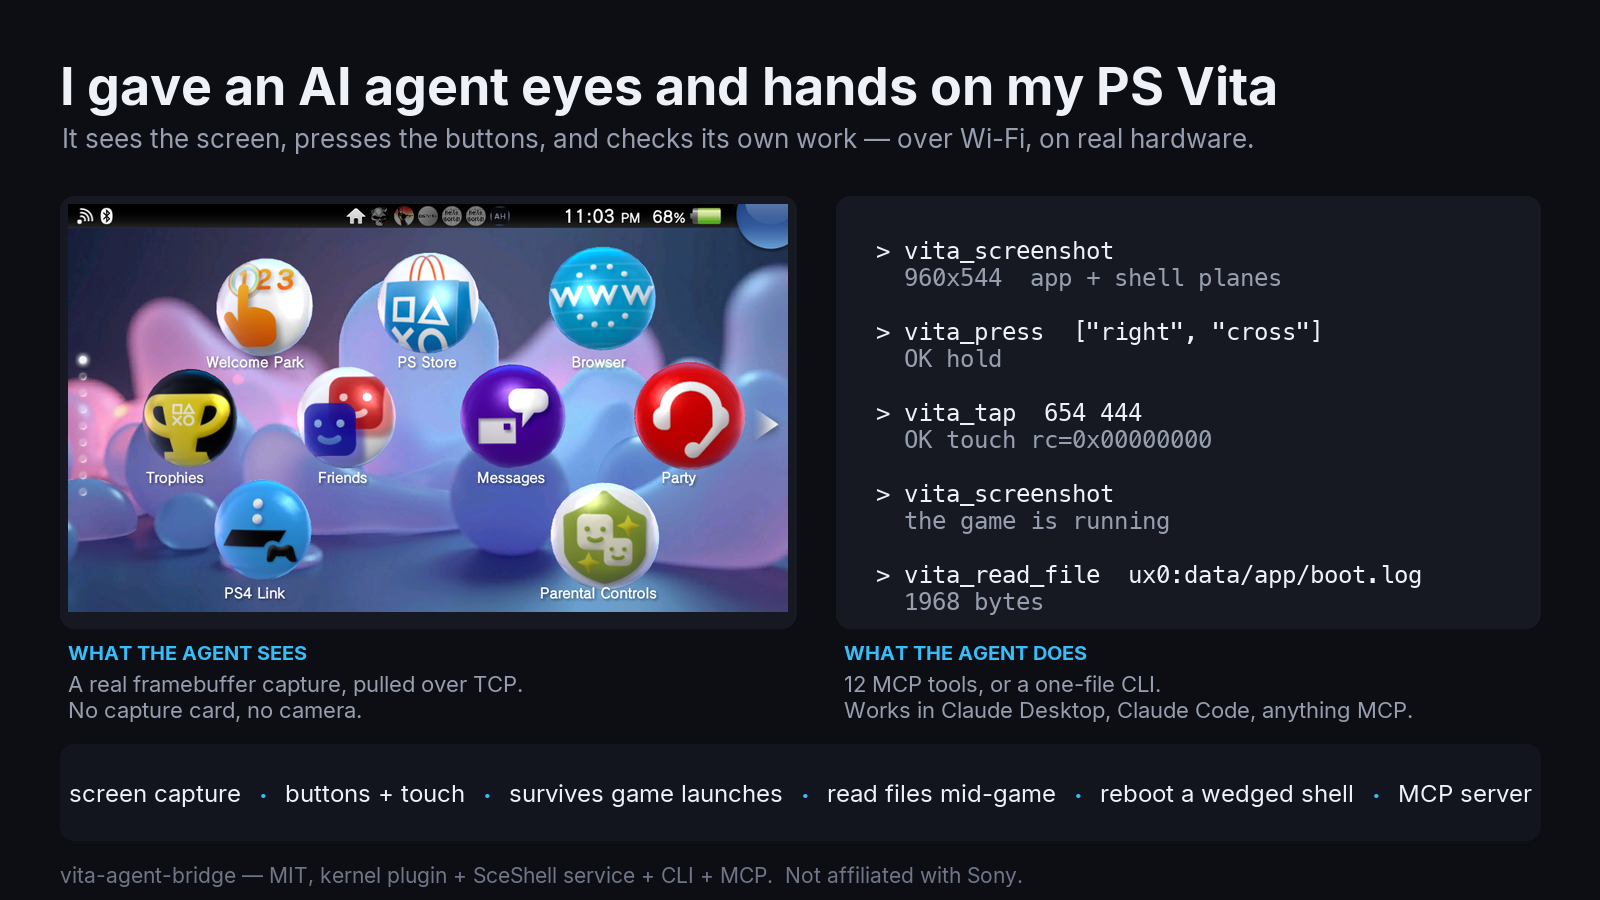
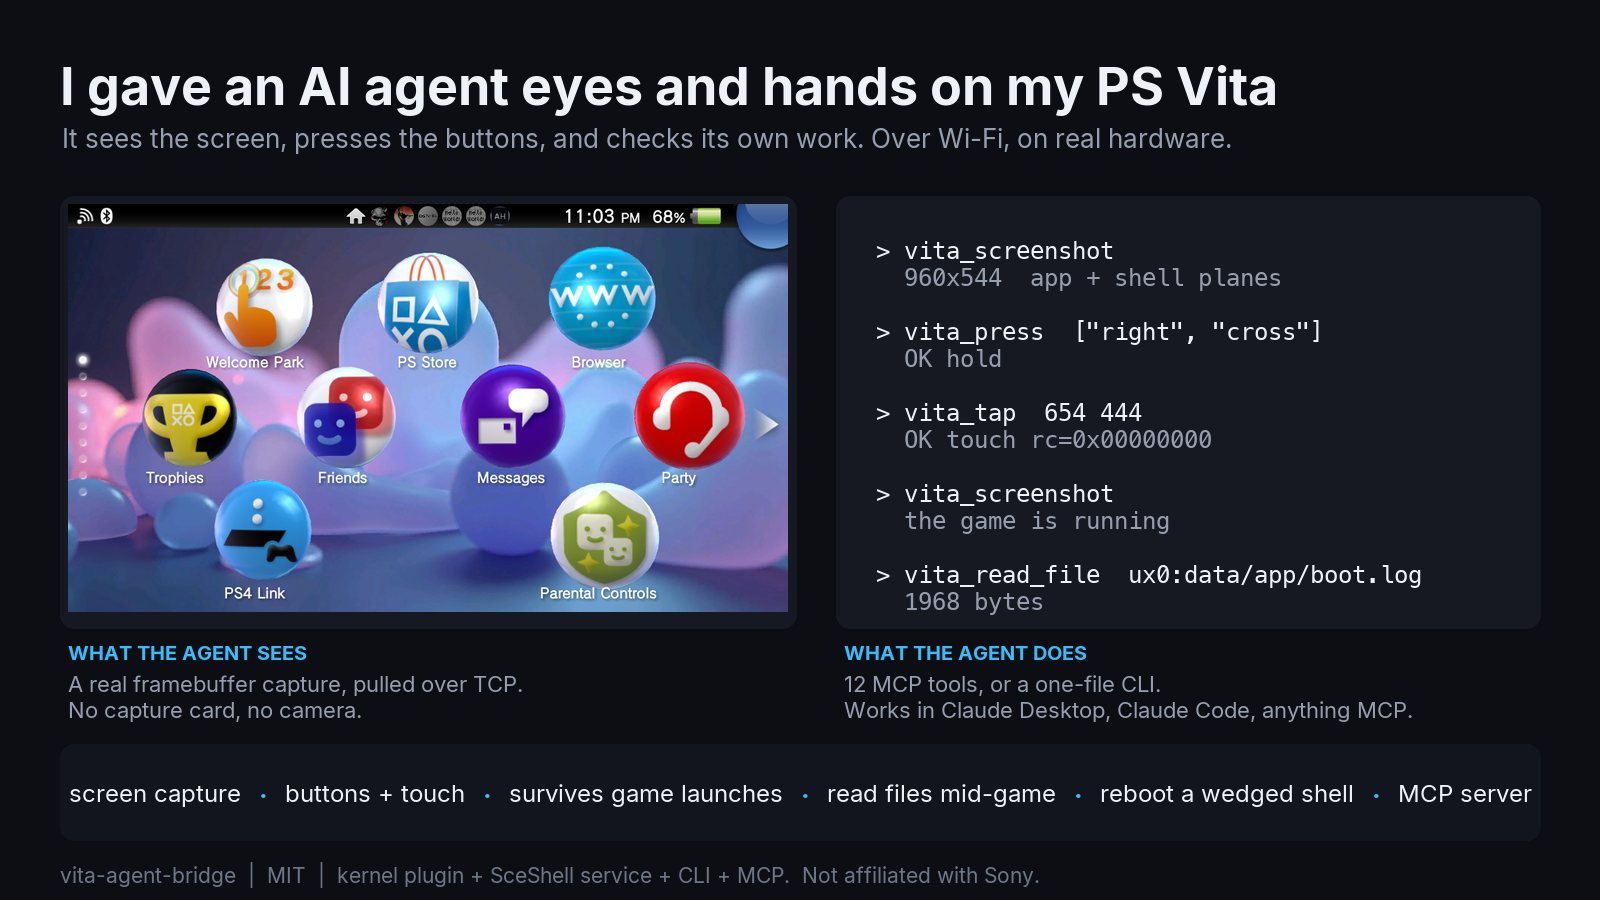
Drop em dashes from the docs and hero image

Changed region(s): [[0.1562, 0.9644, 0.6562, 0.9956], [0.5625, 0.1244, 0.7812, 0.1867]]

diff --git a/docs/reddit-post.md b/docs/reddit-post.md
@@ -2,7 +2,7 @@
 
 Attach `docs/hero.png`. Suggested title:
 
-> **I gave an AI agent eyes and hands on my Vita — screen capture + input over TCP, with an MCP server [open source]**
+> **I gave an AI agent eyes and hands on my Vita: screen capture + input over TCP, with an MCP server [open source]**
 
 Body:
 
@@ -10,11 +10,11 @@ Body:
 
 I wanted an AI agent to set up and test homebrew on my Vita without me holding
 it. vitacompanion already does input injection and FTP, but nothing could send
-back **what is on the screen** — and without that an agent is typing blind.
+back **what is on the screen**, and without that an agent is typing blind.
 
 So: **vita-agent-bridge**. A kernel plugin that reads the display planes and
 injects buttons/analog/touch, plus a small TCP service that vakern injects into
-**SceShell** — which means it survives launching a game, unlike a background app
+**SceShell**, which means it survives launching a game, unlike a background app
 that gets evicted the moment RetroArch starts.
 
 The loop is just:
@@ -29,7 +29,7 @@ vita.py shot screen.png     # look again
 - Screen capture, both planes (app + shell), full or half res
 - Buttons, analog, touch, swipes
 - Launch by title id, close the foreground app
-- Read-only `ls` / `get` — pull a log off the card *while a game is running*
+- Read-only `ls` / `get`: pull a log off the card *while a game is running*
 - `df` for free space
 - `reboot` from inside SceShell, which got me out of a wedged shell without the
   30-second power-button hold
@@ -38,17 +38,17 @@ vita.py shot screen.png     # look again
 
 **Why you might want it even if you do not care about AI**
 Automated testing on real hardware. Boot your homebrew, press through a menu,
-screenshot, diff against a reference — no capture card. Same for pulling crash
+screenshot, diff against a reference, with no capture card. Same for pulling crash
 dumps while the app is still up.
 
 **Security, up front:** it is plaintext TCP and whoever holds the token can read
 files, press anything and reboot your console. Token is generated per install
-and read from a file on the card — no token file, no open port — and file access
+and read from a file on the card (no token file, no open port), and file access
 is read-only. Trusted LAN only, never port-forward it.
 
 Tested on a PCH-2000 on 3.65 Ensō. MIT. Kernel code is small and the privileged
 work is all syscalls, so a bug in the network service kills a user process rather
-than the kernel — though I did crash the console three times getting there.
+than the kernel. I did still crash the console three times getting there.
 
 Repo: <link>
 
@@ -56,7 +56,7 @@ Some quirks I hit, in case they save someone time:
 - The shell ignores injected buttons entirely, except PS. System dialogs and
   LiveArea need touch.
 - The console confirms with ○ in the shell but ✕ inside apps.
-- A kernel module exporting syscalls can never be unloaded — each revision needs
+- A kernel module exporting syscalls can never be unloaded. Each revision needs
   a fresh module name, which is why mine carries a number.
 - A LiveArea "Start" button sometimes ignores synthetic taps and I still do not
   know why. A real finger always works. If anyone knows, I would like to.
@@ -68,5 +68,5 @@ Notes before posting:
   that earns replies.
 - Consider cross-posting to r/PSVita later with the same image but a lighter
   body, and to GBAtemp's Vita homebrew forum.
-- Be ready for "why not just use vitacompanion" — the answer is screen capture
+- Be ready for "why not just use vitacompanion". The answer is screen capture
   and surviving game launches; the README has the table.

diff --git a/README.md b/README.md
@@ -1,6 +1,6 @@
 # vita-agent-bridge
 
-**See and control a PS Vita over the network — and let an AI agent do it.**
+**See and control a PS Vita over the network, and let an AI agent do it.**
 
 A kernel plugin plus a TCP service that lives *inside* SceShell. It captures the
 screen, injects buttons and touch, launches apps, reads files and can cold-reset
@@ -26,7 +26,7 @@ it does not have:
 | | vitacompanion | vita-agent-bridge |
 |---|---|---|
 | Buttons / analog / touch | yes | yes |
-| **Screen capture** | no | **yes — both planes, full or half res** |
+| **Screen capture** | no | **yes, both planes, full or half res** |
 | Survives a game launching | background app, gets evicted | **lives in SceShell** |
 | Recover a wedged shell | – | **`reboot` from inside the shell** |
 | Read files while a game runs | FTP dies with the app | **`ls` / `get` over the same socket** |
@@ -52,7 +52,7 @@ Requires HENkaku Ensō (tested on 3.65) and taiHEN.
 1. Grab `vakern.skprx` and `vabridge.suprx` from Releases, or build them
    (VitaSDK, then `cmake -S . -B build && cmake --build build`).
 2. On the console, create `ur0:data/vita-agent-bridge/` and copy both modules in.
-3. Make a token — 64 hex characters, unique to your console:
+3. Make a token, 64 hex characters, unique to your console:
    ```sh
    python3 -c "import secrets; print(secrets.token_hex(32))" > token.txt
    ```
@@ -88,7 +88,7 @@ python3 cli/vita.py status
 Twelve tools: `vita_screenshot`, `vita_press`, `vita_tap`, `vita_swipe`,
 `vita_launch`, `vita_status`, `vita_list_files`, `vita_read_file`,
 `vita_free_space`, `vita_close_app`, `vita_keep_awake`, `vita_reboot`.
-Standard library only — no pip install.
+Standard library only, no pip install.
 
 ## Security, plainly
 
@@ -104,7 +104,7 @@ encryption and no rate limiting.
 
 ## Known quirks (learned the hard way)
 
-- The system shell ignores injected buttons — everything except PS. Shell
+- The system shell ignores injected buttons, everything except PS. Shell
   dialogs, LiveArea pages and Settings need **touch**.
 - The console confirms with ○ in the shell but ✕ inside apps.
 - Launching an app while another runs shows a "will close" dialog: tap 654,444.
@@ -113,7 +113,7 @@ encryption and no rate limiting.
 - The Vita sleeps when idle and takes Wi-Fi with it. `vita_keep_awake` /
   `vita.py awake 1` before long unattended work.
 - A kernel module that exports syscalls cannot be unloaded. Each revision needs a
-  new module and library name — that is why the names carry a number.
+  new module and library name, which is why the names carry a number.
 
 ## How it fits together
 
@@ -129,7 +129,7 @@ vita.py / MCP server  --TCP 1348--> vabridge.suprx   (inside SceShell)
 
 `vakern` hooks twelve `SceCtrl` entry points and four `ksceTouch` ones (the
 ds4vita pattern), reads both display planes, and injects `vabridge` into SceShell
-with `ksceKernelLoadStartModuleForPid` — the shell is the one process games never
+with `ksceKernelLoadStartModuleForPid`. The shell is the one process games never
 evict. `vabridge` is just a TCP front end: every privileged action is a syscall,
 so a mistake there kills a user process, not the kernel.
 
@@ -137,7 +137,7 @@ See [docs/protocol.md](docs/protocol.md) for the wire format.
 
 ## Credits and licence
 
-MIT — see [LICENSE](LICENSE). The touch-hook approach follows
+MIT, see [LICENSE](LICENSE). The touch-hook approach follows
 [ds4vita](https://github.com/xerpi/ds4vita); built with
 [VitaSDK](https://vitasdk.org) and [taiHEN](https://github.com/yifanlu/taiHEN).
 

diff --git a/docs/protocol.md b/docs/protocol.md
@@ -13,12 +13,12 @@ fails gets `ERR auth\n` and nothing else happens.
 |---|---|
 | `status` | `OK vita-agent-bridge <ver> vakern=0x%04X app=%08X pid=0x%08X <w>x<h> shell=%08X pid=0x%08X` |
 | `shot [half]` | two planes, app then shell (see below) |
-| `hold <mask> <ms>` | `OK hold` — mask is the SceCtrl button bits |
-| `stick <lx> <ly> <rx> <ry> <ms>` | `OK stick` — 0-255 each |
-| `touch <x> <y> <ms>` | `OK touch rc=0x…` — screen pixels, 960x544 space |
-| `swipe <x1> <y1> <x2> <y2> <ms>` | `OK swipe rc=0x…` — linear drag, 16-10000 ms |
-| `launch <TITLEID>` | `OK launch <id> rc=0x…` — nine chars, A-Z0-9 |
-| `kill-fg` | `OK kill-fg rc=0x…` — never kills the shell itself |
+| `hold <mask> <ms>` | `OK hold`, mask is the SceCtrl button bits |
+| `stick <lx> <ly> <rx> <ry> <ms>` | `OK stick`, 0-255 each |
+| `touch <x> <y> <ms>` | `OK touch rc=0x...`, screen pixels in 960x544 space |
+| `swipe <x1> <y1> <x2> <y2> <ms>` | `OK swipe rc=0x...`, linear drag, 16-10000 ms |
+| `launch <TITLEID>` | `OK launch <id> rc=0x...`, nine chars A-Z0-9 |
+| `kill-fg` | `OK kill-fg rc=0x...`, never kills the shell itself |
 | `awake <0\|1>` | `OK awake <n>` |
 | `ls <path>` | `d\|f <size> <name>` per line, then `OK ls <count>` |
 | `get <path>` | `OK get <size>\n` then raw bytes |
@@ -30,7 +30,7 @@ Paths must be device-qualified (`ux0:...`) and may not contain `..`.
 
 ## Screenshots
 
-`shot` writes two planes back to back — the foreground app's, then the shell's.
+`shot` writes two planes back to back: the foreground app's, then the shell's.
 Each is a 24-byte header followed by RGBA rows:
 
 ```c
